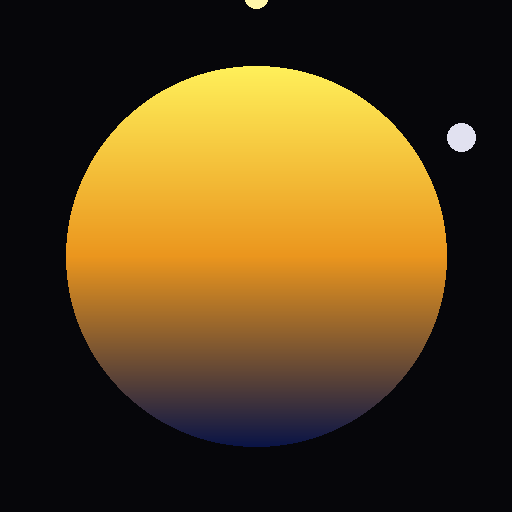
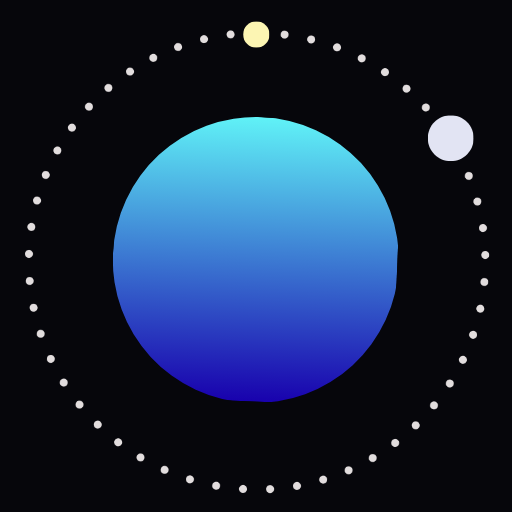
Red star for Vernon

diff --git a/src/components/EarthView.jsx b/src/components/EarthView.jsx
@@ -1,6 +1,14 @@
 import { moonState, subsolarPoint, solarHourAt } from "../astro.js";
 import { HOME_LON, HOME_NAME } from "../config.js";
 
+// Points of a five-pointed star centred on (x, y).
+const star = (x, y, outer, inner) =>
+  Array.from({ length: 10 }, (_, i) => {
+    const r = i % 2 === 0 ? outer : inner, a = (Math.PI / 5) * i - Math.PI / 2;
+    return `${(x + r * Math.cos(a)).toFixed(1)},${(y + r * Math.sin(a)).toFixed(1)}`;
+  }).join(" ");
+
+const STAR_COLOR = "#ff3b3b";
 const SIZE = 320, CX = 160, CY = 170, R = 100, RING = 140;
 
 export default function EarthView({ now }) {
@@ -23,8 +31,8 @@ export default function EarthView({ now }) {
         <linearGradient id="earthGrad" gradientUnits="userSpaceOnUse"
           x1="0" y1={CY + offset + R} x2="0" y2={CY + offset - R}>
           <stop offset="0" stopColor="rgb(10,20,70)" />
-          <stop offset="0.5" stopColor="rgb(235,150,30)" />
-          <stop offset="1" stopColor="rgb(255,240,90)" />
+          <stop offset="0.5" stopColor="rgb(40,110,210)" />
+<stop offset="1" stopColor="rgb(160,220,255)" />
         </linearGradient>
         <radialGradient id="sunGlow">
           <stop offset="0" stopColor="#fff6b0" />
@@ -42,7 +50,7 @@ export default function EarthView({ now }) {
         <text x={CX - R + 34} y={CY + 4}>SUNSET</text>
       </g>
       <circle cx={CX} cy={CY} r="2.5" fill="#fff" />
-      <circle cx={hx} cy={hy} r="6" fill="#00ffff" stroke="#06060a" strokeWidth="2" />
+      <polygon points={star(hx, hy, 10, 4.2)} fill={STAR_COLOR} stroke="#06060a" strokeWidth="1.5" strokeLinejoin="round" />
       <text x={hx} y={hy + (hy > CY ? 20 : -12)} textAnchor="middle" className="svg-label">{HOME_NAME}</text>
       <circle cx={mx} cy={my} r="8" fill="#e1e1f0" />
     </svg>

diff --git a/src/styles.css b/src/styles.css
@@ -10,8 +10,6 @@ main {
   padding: max(20px, env(safe-area-inset-top)) 16px max(24px, env(safe-area-inset-bottom));
 }
 .time { font-size: clamp(56px, 18vw, 96px); font-weight: 700; color: var(--accent); letter-spacing: .04em; line-height: 1; }
-.colon { animation: blink 2s steps(1) infinite; }
-@keyframes blink { 50% { opacity: .25; } }
 nav { display: flex; gap: 8px; justify-content: center; margin: 18px 0 8px; }
 nav button {
   font: inherit; color: var(--dim); background: none; border: 1px solid #2a2a38;
@@ -20,7 +18,7 @@ nav button {
 nav button.on { color: var(--bg); background: var(--accent); border-color: var(--accent); }
 .view { width: min(100%, 340px); height: auto; display: block; margin: 8px auto; }
 .view.moon { width: min(80%, 280px); }
-.svg-label { fill: var(--cyan); font-size: 13px; font-family: inherit; }
+.svg-label { fill: #ff3b3b; font-size: 13px; font-family: inherit; }
 .label { color: var(--dim); text-transform: uppercase; letter-spacing: .14em; font-size: 12px; margin: 14px 0 2px; }
 .big { font-size: clamp(20px, 6vw, 28px); margin: 2px 0; font-weight: 700; }
 .place { color: var(--cyan); }

diff --git a/src/App.jsx b/src/App.jsx
@@ -63,7 +63,7 @@ export default function App() {
           <p className="label">{SUN_LABEL}</p>
           <p className="big place">{place.text}</p>
           <p className="small">{formatLatLon(sun.lat, sun.lon)}</p>
-          <p className="small how">Seen from space, above the North Pole. The sun is always at the top. The cyan dot is {HOME_NAME}, going round counter-clockwise once a day: noon at the top, sunrise on the right, sunset on the left, midnight at the bottom.</p>
+          <p className="small how">Seen from space, above the North Pole. The sun is always at the top. The red star is {HOME_NAME}, going round counter-clockwise once a day: noon at the top, sunrise on the right, sunset on the left, midnight at the bottom.</p>
         </section>
       ) : tab === "sky" ? (
         <Sky now={now} />

diff --git a/public/sw.js b/public/sw.js
@@ -1,8 +1,8 @@
 // Tiny offline cache. The app needs no network: all astronomy is computed from the clock.
-const CACHE = "sme-v1";
+const CACHE = "sme-v2";
 
 self.addEventListener("install", (e) => {
-  e.waitUntil(caches.open(CACHE).then((c) => c.addAll(["/", "/manifest.webmanifest", "/icon-192.png", "/icon-512.png"])));
+  e.waitUntil(caches.open(CACHE).then((c) => c.addAll(["/", "/manifest.webmanifest", "/icon-192.png", "/icon-512.png", "/icon-maskable-512.png"])));
   self.skipWaiting();
 });
 
